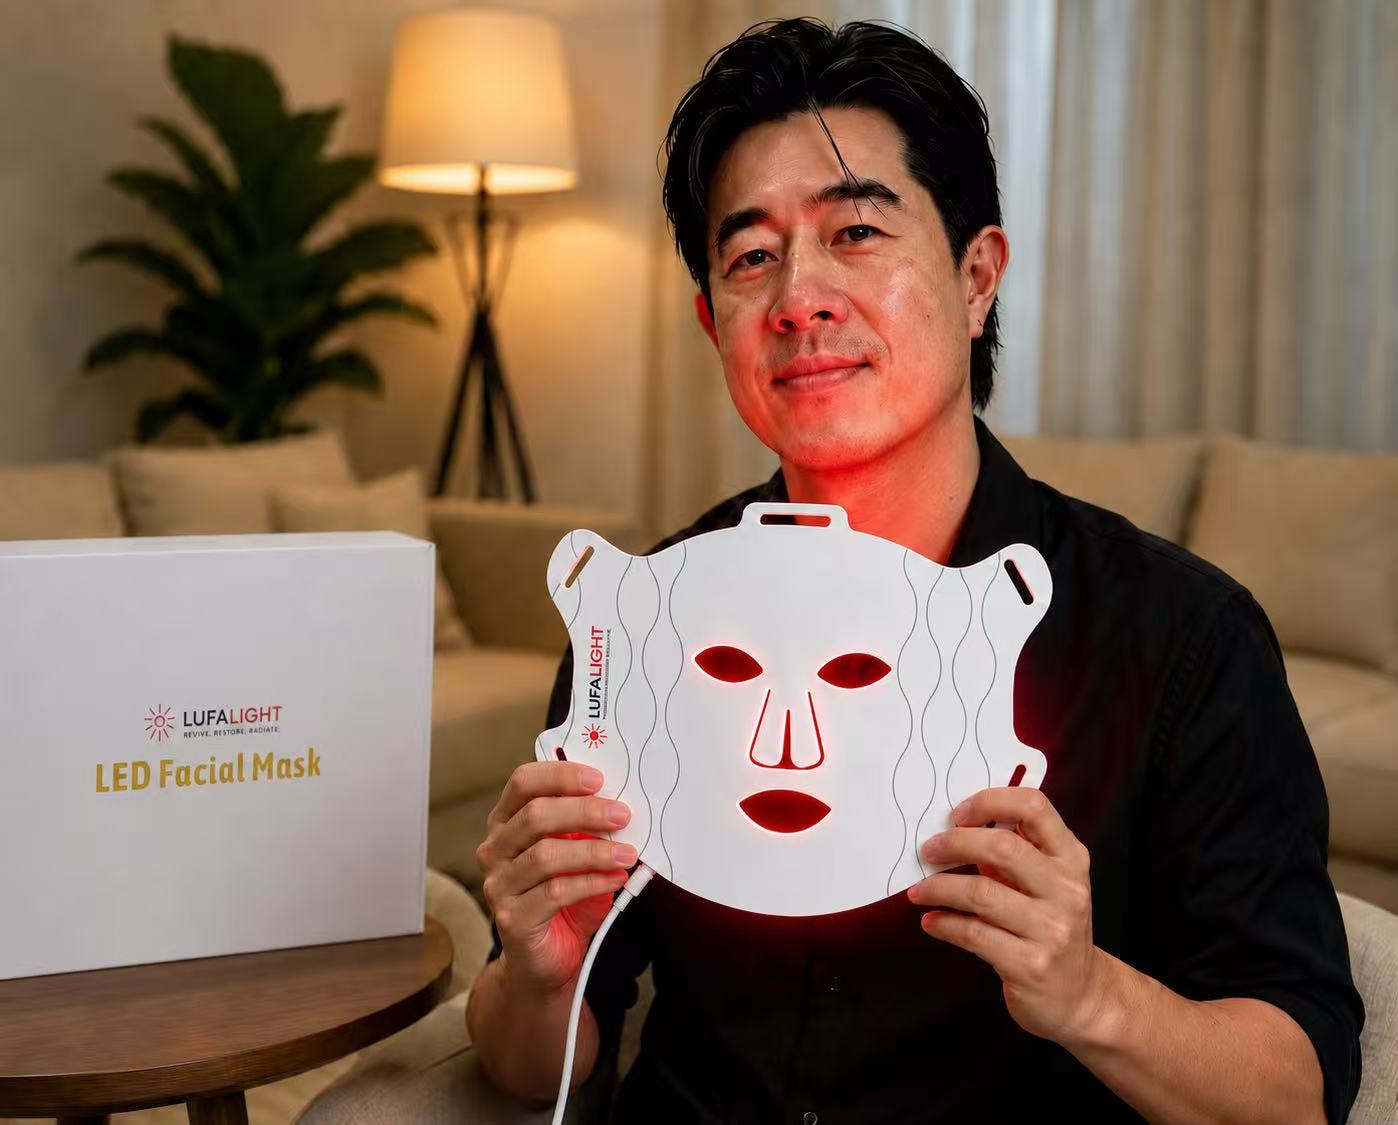
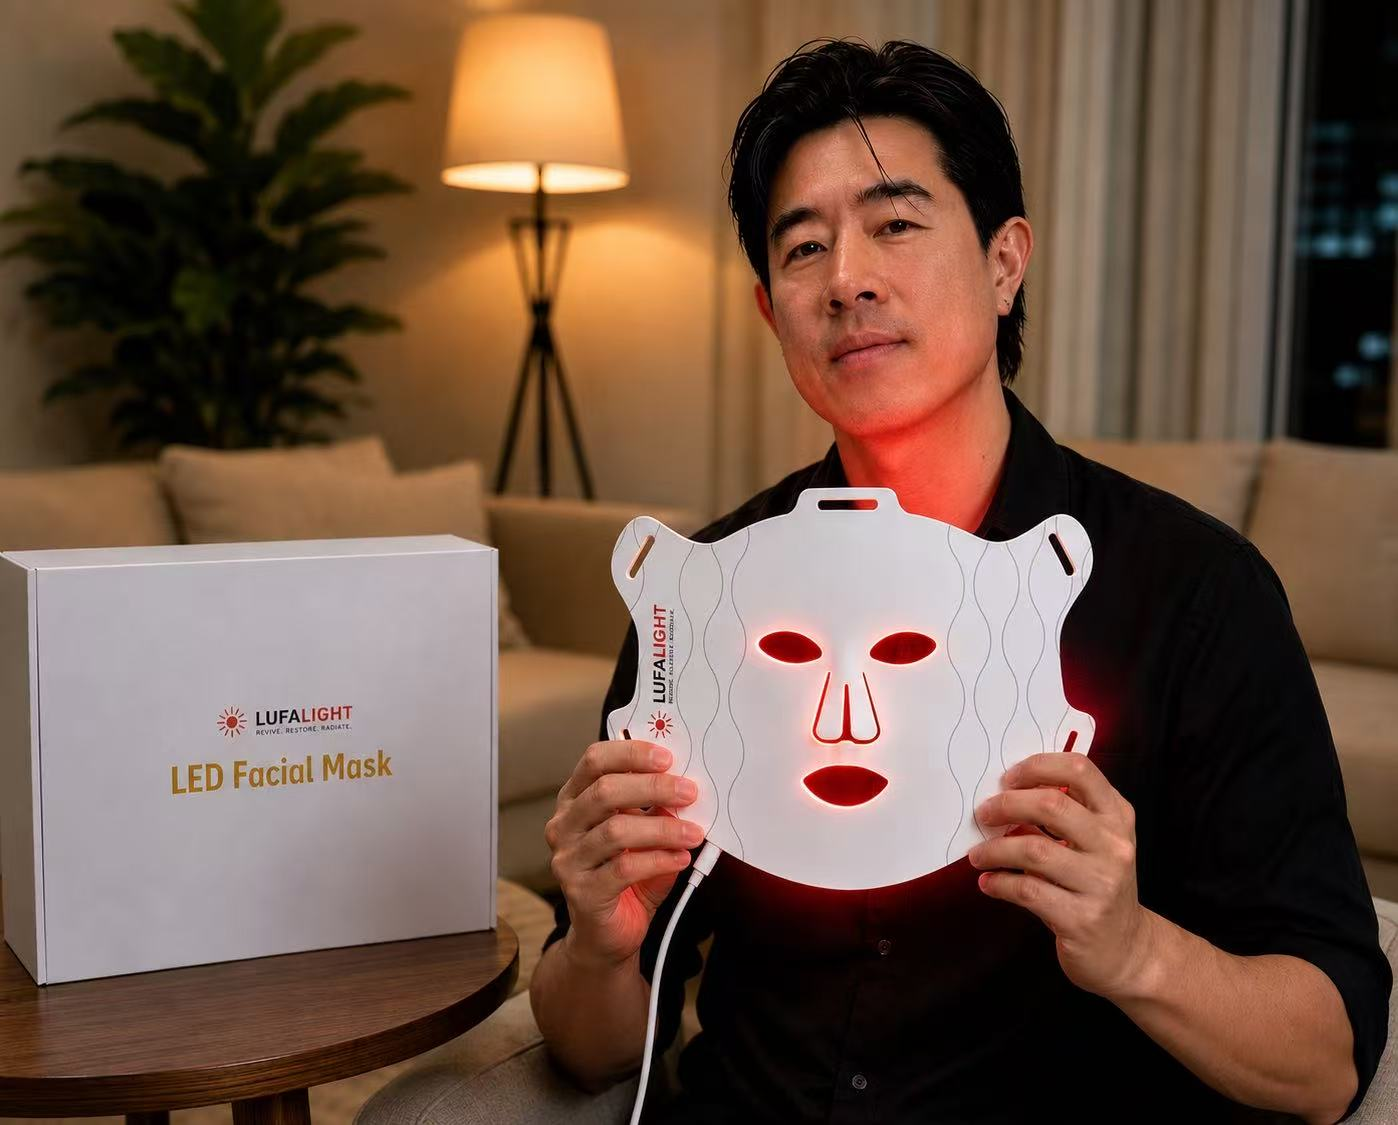
Update "Our Story" section with new image of Hugh and adjust text for accuracy

diff --git a/our-story.html b/our-story.html
@@ -330,7 +330,7 @@ footer{background:var(--bg2);border-top:1px solid var(--line);padding:64px 0 24p
       <div class="founder-frame">
         <img src="images/story/hugh-founder.jpg" alt="Hugh, founder of Lufalight" loading="eager"/>
         <div class="founder-cap">
-          <div class="founder-cap-n">Hugh</div>
+          <div class="founder-cap-n">Hugh (in his 40s)</div>
           <div class="founder-cap-r">Founder, Lufalight</div>
         </div>
       </div>
@@ -375,14 +375,14 @@ footer{background:var(--bg2);border-top:1px solid var(--line);padding:64px 0 24p
     <span class="tag">Why Lufalight Exists</span>
     <h2>Not a marketing brief. A journey.</h2>
     <p style="margin-top:20px">LUFALIGHT was born from that journey — from lived pain, real healing, and an unshakeable belief in what light, the right wavelengths applied with precision and regularity, can do for the human body.</p>
-    <p>Hugh set out sourcing the most advanced manufacturing partners, demanding the highest certifications from every one of them, and spent the next five years in prototyping and testing until the science and the product were both undeniable.</p>
+    <p>Hugh set out sourcing the most advanced manufacturing partners, demanding the highest certifications from every one of them, and spent the next ten years in prototyping and testing until the science and the product were both undeniable.</p>
     <p>Today, LUFALIGHT exists to give families, friends, and customers the same springboard Hugh found: a comprehensive, integrated line of science-backed light therapy devices designed to support recovery, healthy aging, and long-term vitality.</p>
   </div>
   <div class="cert-strip">
     <div class="cert-i rv"><span class="cert-ic">🏭</span><div class="cert-t">FDA-Registered</div><div class="cert-s">Manufacturing Facility</div></div>
     <div class="cert-i rv"><span class="cert-ic">📋</span><div class="cert-t">ISO 13485</div><div class="cert-s">Quality Management</div></div>
     <div class="cert-i rv"><span class="cert-ic">🩺</span><div class="cert-t">IEC 60601</div><div class="cert-s">Medical Safety Standard</div></div>
-    <div class="cert-i rv"><span class="cert-ic">🔬</span><div class="cert-t">5 Years</div><div class="cert-s">Prototyping &amp; Testing</div></div>
+    <div class="cert-i rv"><span class="cert-ic">🔬</span><div class="cert-t">10 Years</div><div class="cert-s">Prototyping &amp; Testing</div></div>
   </div>
 </div></section>
 